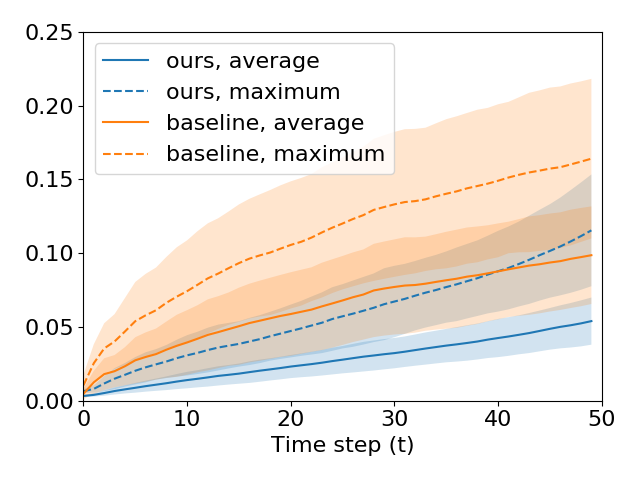
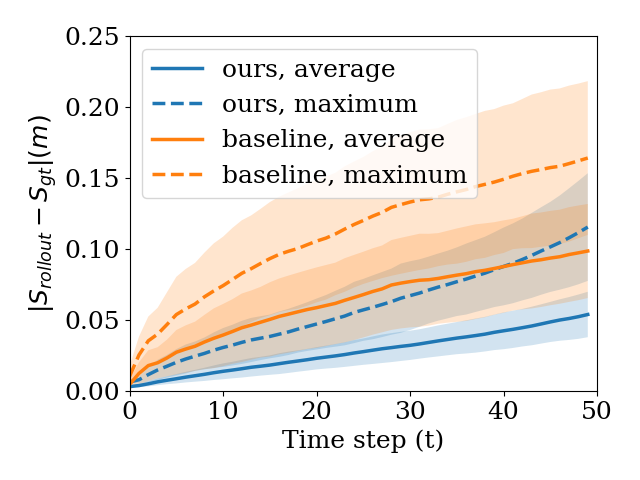
paper figures and scripts

diff --git a/paperfigs/paperfig.py b/paperfigs/paperfig.py
@@ -1,8 +1,8 @@
 import numpy as np
 import matplotlib
-font = {'family' : 'normal',
+font = {'family' : 'serif',
         'weight' : 'normal',
-        'size'   : 16}
+        'size'   : 18}
 matplotlib.rc('font', **font)
 import matplotlib.pyplot as plt
 
@@ -11,8 +11,8 @@ neural_novision_train = np.load('eval_sim_trainset.npz')
 neural_vision_eval = np.load('eval_sim_testset_withvision.npz')
 neural_vision_train = np.load('eval_sim_trainset_withvision.npz')
 
-baseline_train = np.load('../baseline-DVF-0/eval_simseq3d_rollout_trainset.npz')
-baseline_eval =  np.load('../baseline-DVF-0/eval_simseq3d_rollout_testset.npz')
+baseline_train = np.load('../../baseline-DVF-0/eval_simseq3d_rollout_trainset.npz')
+baseline_eval =  np.load('../../baseline-DVF-0/eval_simseq3d_rollout_testset.npz')
 baseline_train_avg_dists=baseline_train['avg_dists']-baseline_train['start_avg_dists'].reshape((-1,1))
 baseline_train_max_dists=baseline_train['max_dists']-baseline_train['start_max_dists'].reshape((-1,1))
 baseline_train = {'mean_avg': np.mean(baseline_train_avg_dists, axis=0),
@@ -32,18 +32,18 @@ series = [(neural_vision_eval['mean_avg'], neural_vision_eval['std_avg']),
           (baseline_eval['mean_avg'], baseline_eval['std_avg']),
           (baseline_eval['mean_max'], baseline_eval['std_max']), ]
 
-labels = ['ours, average', 'ours, maximum', 'baseline, average', 'baseline, maximum']
+labels = ['ours, average', 'ours, maximum', 'DVF, average', 'DVF, maximum']
 colors = ['C0', 'C0', 'C1', 'C1']
 linestyles = ['-', '--', '-', '--']
 
 for data, label, c, l in zip(series, labels, colors, linestyles):
     mean = data[0][:50]
     std = data[1][:50]
-    plt.plot(mean, c=c, label=label, linestyle=l)
-#    plt.fill_between(np.arange(len(mean)), mean-std, mean+std, facecolor=c, alpha=0.2)
+    plt.plot(mean, c=c, label=label, linestyle=l, linewidth=2.5)
+    plt.fill_between(np.arange(len(mean)), mean-std, mean+std, facecolor=c, alpha=0.2)
 plt.axis([0, 50, 0, 0.25])
 plt.xlabel('Time step (t)')
-#plt.ylabel(r'$\|x_{rollout} - x_{gt}\|$')
+plt.ylabel(r'$\|S_{rollout} - S_{gt}\| (m)$')
 plt.legend(loc=2)
 plt.tight_layout()
 plt.show()

diff --git a/paperfig-data-efficiency.py b/paperfig-data-efficiency.py
@@ -1,0 +1,28 @@
+import matplotlib
+import numpy as np
+font = {'family' : 'serif',
+        'weight' : 'normal',
+        'size'   : 16}
+matplotlib.rc('font', **font)
+import matplotlib.pyplot as plt
+
+DVF_data_size = [1.0, 0.1]
+DVF_avg_dists = [0.0072, 0.0082]
+DVF_max_dists = [0.0127, 0.0137]
+
+neural_data_size = [0.01, 0.033, 0.1, 0.25, 0.5, 1.0]
+neural_avg_dists = [0.0028, 0.0023, 0.0022, 0.0022, 0.0021, 0.0020]
+neural_max_dists = [0.0077, 0.0066, 0.0064, 0.0063, 0.0062, 0.0060]
+
+plt.semilogx(DVF_data_size, DVF_avg_dists, c='C1', label='DVF, average')
+plt.semilogx(DVF_data_size, DVF_max_dists, c='C1', linestyle='--', label='DVF, maximum')
+plt.semilogx(neural_data_size, neural_avg_dists, c='C0', label='ours, average')
+plt.semilogx(neural_data_size, neural_max_dists, c='C0', linestyle='--', label='ours, maximum')
+plt.ylim([0,0.02])
+plt.yticks(np.linspace(0,0.02,5))
+plt.xlabel('Relative dataset size')
+plt.ylabel(r'$\|S_{pred} - S_{gt}\| (m)$')
+plt.legend()
+plt.tight_layout()
+plt.show()
+
